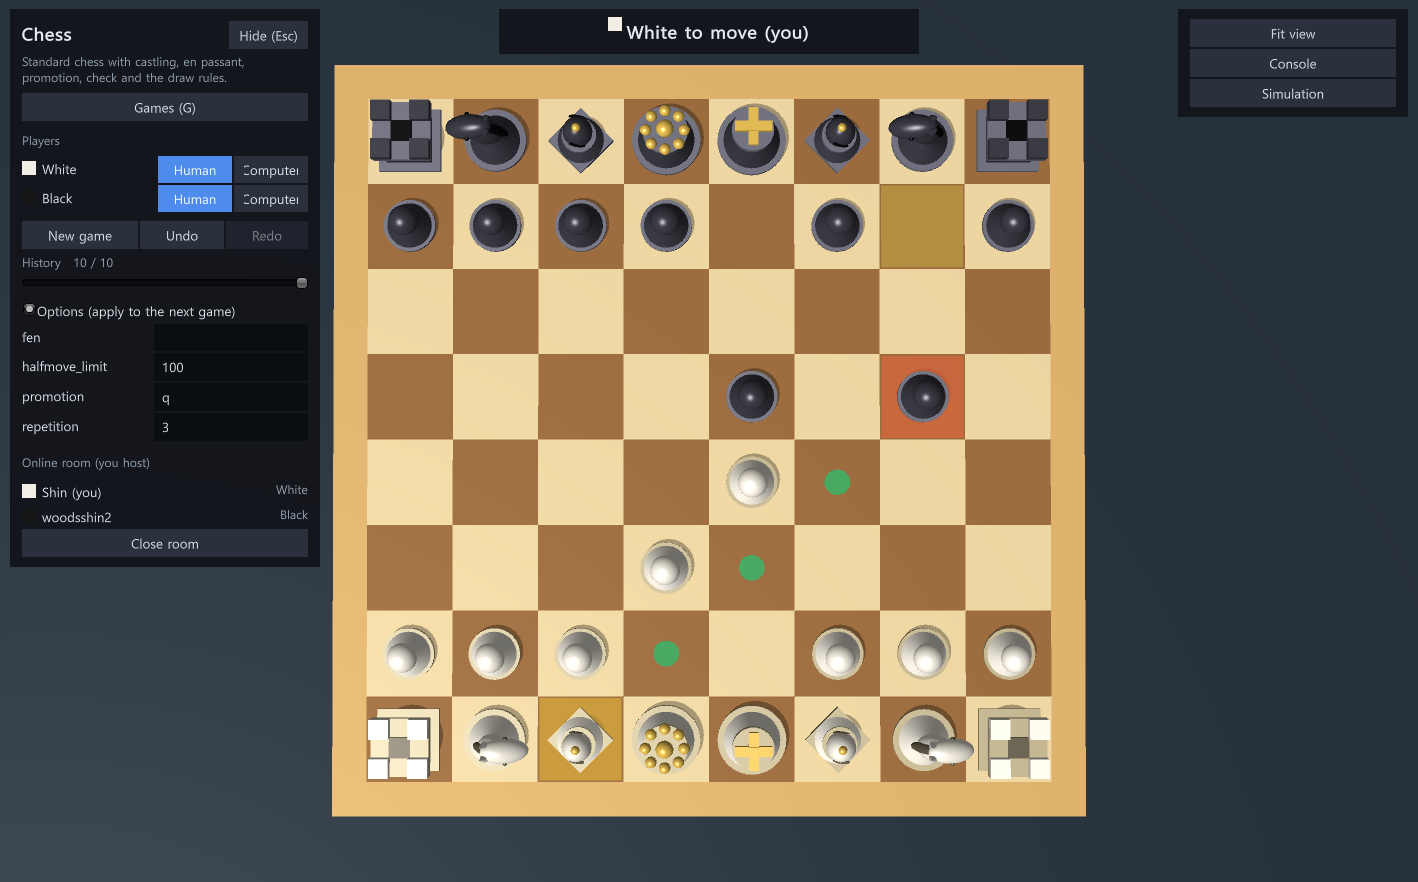
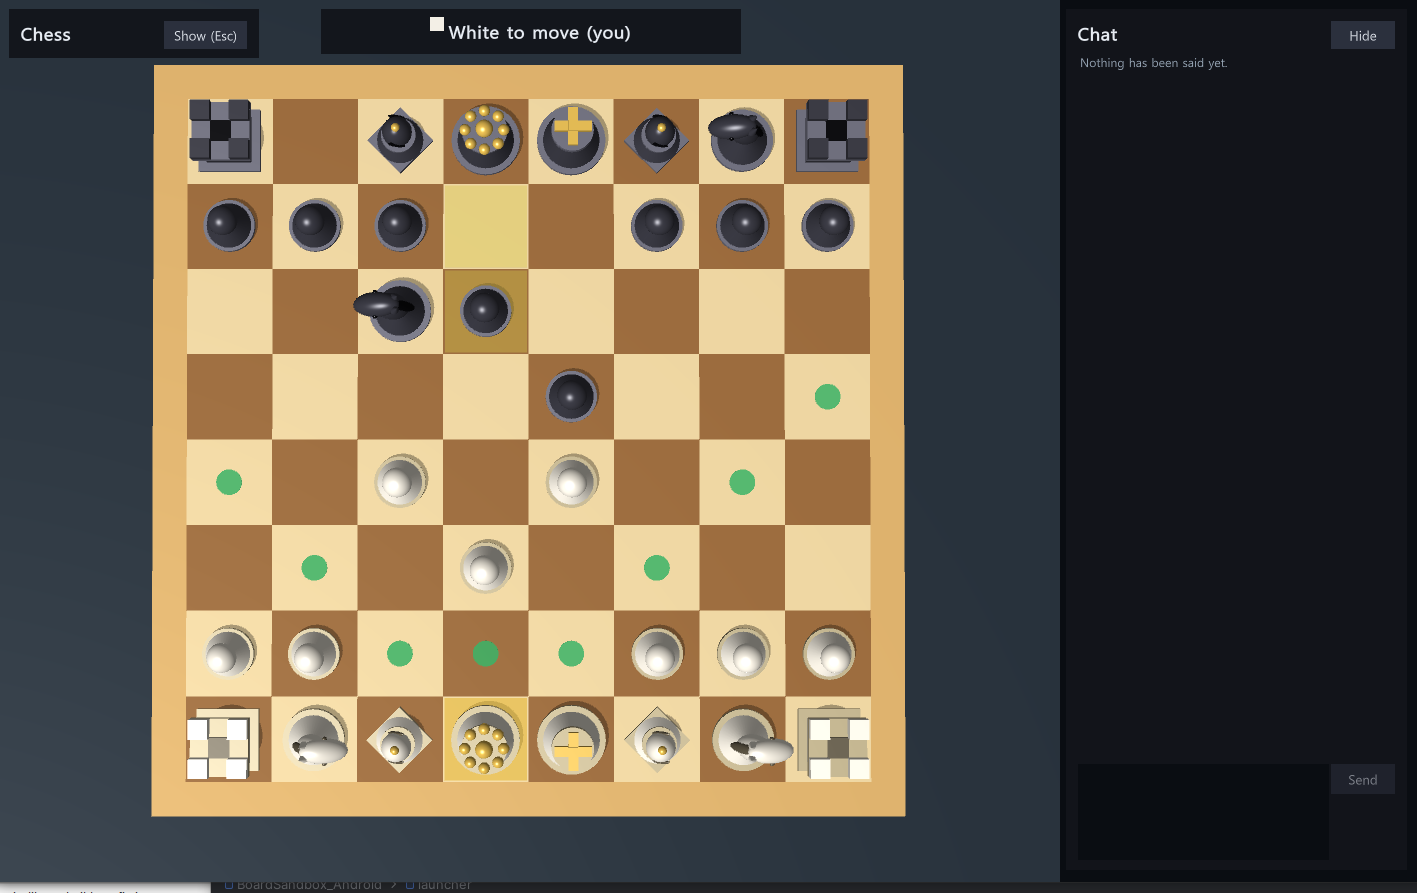
Readme 수정

diff --git a/README_EN.md b/README_EN.md
@@ -7,6 +7,8 @@ A single folder containing a `config.json` file and `.luau` files becomes a stan
 * **Supported Platforms**: Windows (x64), Android (ARM64, ARMv7, x86_64)
 * **Built-in Mods**: Gomoku, Chess, Sudoku (Single-player and 2-player Co-op), Go-Stop, 3D Cube Puzzle (Cubic 3x3)
 
+![Chess](Image/Chess.png)
+
 ---
 
 ## Core Technologies
@@ -36,6 +38,9 @@ A single folder containing a `config.json` file and `.luau` files becomes a stan
 * **Host-Authoritative Room Architecture and Multi-Backend Support**
   * `NetHostRoom` executes rules and broadcasts events while `NetClientRoom` plays them back, with the host validating all participant inputs.
   * Decouples the lobby and transport layers into `ILobbyBackend` and `INetTransport`, supporting both **Steam** (Windows, `STEAMWORKS_NET`) and **Epic Online Services** (Android/Windows, Device ID anonymous login and P2P).
+  
+  ![Cubic](Image/Cube.png)
+	
 * **Packet Fragmentation and Reassembly**
   * Automatically fragments room messages and reassembles them on the receiving end via the `PacketTransport` layer, even in network environments with small transmission size limits (1,170 bytes for EOS P2P).
 * **Version Compatibility and Matchmaking**
@@ -51,6 +56,8 @@ A single folder containing a `config.json` file and `.luau` files becomes a stan
 
 To avoid affecting the ongoing game state, the current board state is restored into a **separate auxiliary VM created with the same mod**, and `rules.query("think")` is called on a background worker thread to prevent UI freezing. Commands generated by the AI pass through the exact same validation pipeline as human player inputs, and configured difficulty levels (search depth/steps) persist across app restarts.
 
+![Gostop](Image/Gostop.png)
+
 * **Gomoku**: Applies segment-based incremental evaluation, iterative deepening alpha-beta search, and four-in-a-row threat extension search. *(Self-play benchmark: 5,000 steps vs. 50 steps — 19 wins out of 20 games)*
 * **Chess**: Applies alpha-beta search combining MVV-LVA, killer/history move ordering, check extensions, quiescence search, and piece-square evaluation tables. *(Self-play benchmark: 30,000 steps vs. 6,000 steps — 8 wins out of 10 games)*
 * **Go-Stop**: Uses a rule-based algorithm for Level 1, while Levels 2 and 3 perform Monte Carlo simulations (Determinization) that randomly redistribute unseen cards. *(Self-play benchmark: 1,200 steps vs. rule-based — 198 wins, 158 losses, 4 draws out of 360 games)*
@@ -60,6 +67,8 @@ To avoid affecting the ongoing game state, the current board state is restored i
 ## AI-Assisted Mod Creation
 
 When you describe the rules of a desired board game in natural language inside the in-game AI console, the integrated AI agent automatically generates `config.json` and Luau scripts.
+
+![Edit with AI](Image/EditwithAI.png)
 
 * **Supported Agents**: Claude Code, Codex CLI, Gemini CLI, Antigravity, Grok, local Ollama, and OpenAI-compatible API endpoints
 * **Automated Validation and Self-Correction**: The engine immediately loads the generated mod and simulates up to 60 random moves; if an error occurs, the error log is fed back to the agent so it can self-correct (up to 2 retries).

diff --git a/README.md b/README.md
@@ -7,6 +7,8 @@
 * **지원 플랫폼**: Windows (x64), Android (ARM64, ARMv7, x86_64)
 * **기본 내장 모드**: 오목, 체스, 스도쿠(1인 및 2인 협동), 고스톱, 3D 큐브 퍼즐(Cubic 3x3)
 
+![Chess](Image/Chess.png)
+
 ---
 
 ## 핵심 기술
@@ -36,6 +38,9 @@
 * **호스트 권한 방 구조 및 멀티 백엔드**
   * `NetHostRoom`이 규칙을 실행해 이벤트를 전파하고 `NetClientRoom`이 이를 재생하며, 모든 참가자의 입력은 호스트가 검증합니다.
   * 로비와 전송 계층을 `ILobbyBackend`, `INetTransport`로 분리하여 **Steam**(Windows, `STEAMWORKS_NET`)과 **Epic Online Services**(Android/Windows, 기기 ID 익명 로그인 및 P2P)를 모두 지원합니다.
+  
+  ![Cubic](Image/Cube.png)
+  
 * **패킷 분할 및 재조립**
   * `PacketTransport` 계층을 통해 전송 크기 제한이 작은 네트워크 환경(EOS P2P 기준 1,170바이트)에서도 방 메시지를 자동으로 분할 전송하고 수신 측에서 재조립합니다.
 * **버전 호환성 및 매칭**
@@ -51,6 +56,8 @@
 
 진행 중인 게임 상태에 영향을 주지 않도록 **동일한 모드로 생성한 별도의 보조 VM**에 현재 국면을 복원한 뒤, 백그라운드 작업 스레드에서 `rules.query("think")`를 호출하여 UI 프리징을 방지합니다. AI가 도출한 명령 역시 일반 플레이어의 입력과 동일한 검증 파이프라인을 거치며, 설정된 난이도(탐색 단계)는 앱 재시작 후에도 유지됩니다.
 
+![Gostop](Image/Gostop.png)
+
 * **오목**: 구간 단위 증분 평가, 반복 심화 알파-베타 탐색, 사(4목) 연장 탐색 적용. *(자체 대국 벤치마크: 5,000단계 vs 50단계 — 20전 19승)*
 * **체스**: MVV-LVA, 킬러·히스토리 무브 정렬, 체크 연장, 정지 탐색(Quiescence Search), 기물-칸 가치 평가 테이블을 결합한 알파-베타 탐색 적용. *(자체 대국 벤치마크: 30,000단계 vs 6,000단계 — 10전 8승)*
 * **고스톱**: 1단계는 규칙 기반 알고리즘을 사용하며, 2·3단계는 보이지 않는 패를 무작위로 재분배하는 몬테카를로 시뮬레이션(Determinization)을 수행합니다. *(자체 대국 벤치마크: 1,200단계 vs 규칙 기반 — 360전 198승 158패 4무)*
@@ -60,6 +67,8 @@
 ## AI 보조 모드 제작
 
 게임 내 AI 콘솔에 원하는 보드게임의 규칙을 자연어로 설명하면 연동된 AI 에이전트가 `config.json`과 Luau 스크립트를 자동으로 생성합니다.
+
+![Edit with AI](Image/EditwithAI.png)
 
 * **지원 에이전트**: Claude Code, Codex CLI, Gemini CLI, Antigravity, Grok, 로컬 Ollama 및 OpenAI 호환 API 엔드포인트
 * **자동 검증 및 자가 수정**: 엔진이 생성된 모드를 즉시 로드해 무작위 수를 최대 60수까지 시뮬레이션하며, 오류 발생 시 에러 로그를 에이전트에게 전달해 스스로 수정하도록 합니다(최대 2회 재시도).
